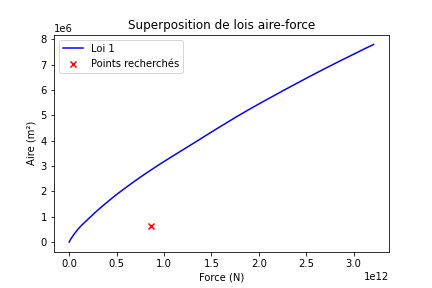
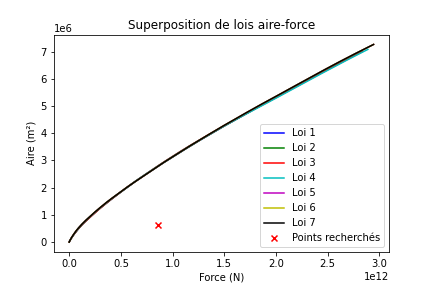
changement get_force_aire

diff --git a/affichage.py b/affichage.py
@@ -78,17 +78,16 @@ def loi(aires, forces):
     plt.plot(forces, aires)
     plt.xlabel('Force (N)')
     plt.ylabel('A\u1D3F (m²)')
-    # Définir la plage des valeurs sur l'axe des x (forces) et y (aires) pour le zoom
-    #plt.xlim(forces[0], forces[7500])  # Vous pouvez ajuster les indices selon vos besoins
-    #plt.ylim(aires[0], aires[7500])    # Vous pouvez ajuster les indices
+    # Définir la plage des valeurs des forces et des aires pour le zoom
+    # plt.xlim(forces[0], forces[7500])
+    # plt.ylim(aires[0], aires[7500])
     plt.savefig("loi.png")  # Permet de sauvegarder le fichier
     plt.show()
 
 
 def superposer_lois(listes, points=None):
     """
-    Superpose différentes lois aire-force sur un même graphique, avec des
-    points particuliers.
+    Superpose différentes lois et points.
 
     Parameters
     ----------
@@ -104,14 +103,16 @@ def superposer_lois(listes, points=None):
     None.
 
     """
-    couleurs = ['b', 'g', 'r', 'c', 'm', 'y', 'k']  # Liste de couleurs distinctives
+    couleurs = ['b', 'g', 'r', 'c', 'm', 'y', 'k']  # Liste de couleurs
     for i in range(len(listes)):
         aires, forces = listes[i]
-        plt.plot(forces, aires, label=f'Loi {i + 1}', color=couleurs[i % len(couleurs)])
+        plt.plot(forces, aires, label=f'Loi {i + 1}',
+                 color=couleurs[i % len(couleurs)])
 
     if points:
         points_forces, points_aires = zip(*points)
-        plt.scatter(points_forces, points_aires, color='red', marker='x', label='Points recherchés')
+        plt.scatter(points_forces, points_aires, color='red',
+                    marker='x', label='Points recherchés')
 
     plt.xlabel('Force (N)')
     plt.ylabel('Aire (m²)')
@@ -142,7 +143,6 @@ def hauteur(hauteurs):
     plt.hist(liste_hauteurs, bins)
     plt.savefig("hauteurs.png")  # Permet de sauvegarder le fichier
     plt.show()
-
 
 
 if __name__ == "__main__":

diff --git a/genetique.py b/genetique.py
@@ -1,6 +1,6 @@
 """Module utilisant un algorithme génétique."""
 
-import Algo_direct_v2
+import algo_direct
 from Individu import Individu
 import random
 import affichage
@@ -62,9 +62,10 @@ def score(individu, points):
     aire_0 = points[-1][1]  # Aire pour normalisee
     force_0 = points[-1][0]  # Force pour normalisee
     for point in points:
-        force, aire = Algo_direct_v2.get_force_aire(individu.get_rayons_courbure(),
-                                                    individu.get_hauteurs(),
-                                                    point)
+        force, aire = algo_direct.get_force_aire(
+                                                individu.get_rayons_courbure(),
+                                                individu.get_hauteurs(),
+                                                point)
         score = (score + ((point[1] - aire)/aire_0)**2
                  + ((point[0] - force)/force_0)**2)
     return score
@@ -187,9 +188,10 @@ def genetique(points, limite=None):
         mutation(population)
         meilleur_individu = selection(population, points)[0]
         print(score(meilleur_individu, points))
-        aires, forces = Algo_direct_v2.loi_totale(meilleur_individu.get_rayons_courbure(),
-                                                  meilleur_individu.get_hauteurs())
-        liste_courbes.append((aires,forces))
+        aires, forces = algo_direct.loi_totale(
+                        meilleur_individu.get_rayons_courbure(),
+                        meilleur_individu.get_hauteurs())
+        liste_courbes.append((aires, forces))
         affichage.superposer_lois(liste_courbes, points=points)
     affichage.loi(aires, forces)
     affichage.hauteur(meilleur_individu.get_hauteurs())

diff --git a/algo_direct.py b/algo_direct.py
@@ -3,7 +3,6 @@
 import numpy as np
 import affichage
 import random
-import time
 
 
 def loi_indentation(rayons_courbure, hauteurs, delta):
@@ -61,11 +60,10 @@ def loi_totale(rayons_courbure, hauteurs):
         Valeurs des forces.
 
     """
-    N = 10000 # Nombre de points
+    N = 10000  # Nombre de points
     aires_totales = [0 for i in range(N)]  # Liste des aires
     forces_totales = [0 for i in range(N)]  # Liste des forces
     hauteur_max = np.max(hauteurs)  # Donne la hauteur la plus elevee
-    hauteur_moitie = (3*hauteur_max) / 4
     for i in range(N):
         delta = i * hauteur_max / N  # Valeur de l'indentation
         # On récupère les aires de chaque sphère et la force
@@ -75,9 +73,6 @@ def loi_totale(rayons_courbure, hauteurs):
         aire_totale = np.sum(aires_contact)  # Aire de contacte totale
         aires_totales[i] = aire_totale
         forces_totales[i] = force
-
-        #if delta == hauteur_moitie:
-            #affichage.spheres(aires_contact)
     return aires_totales, forces_totales
 
 
